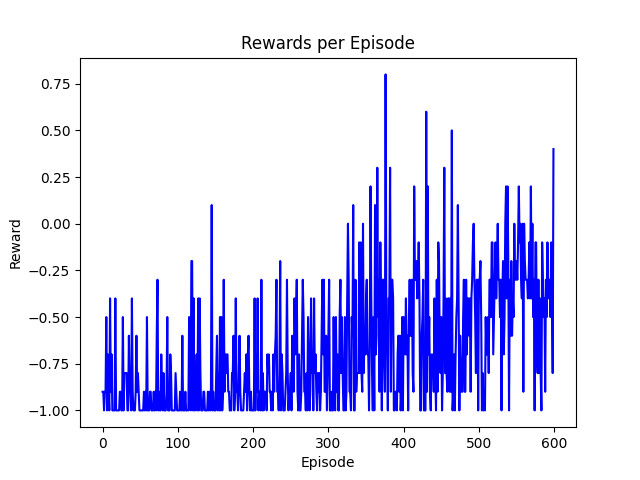
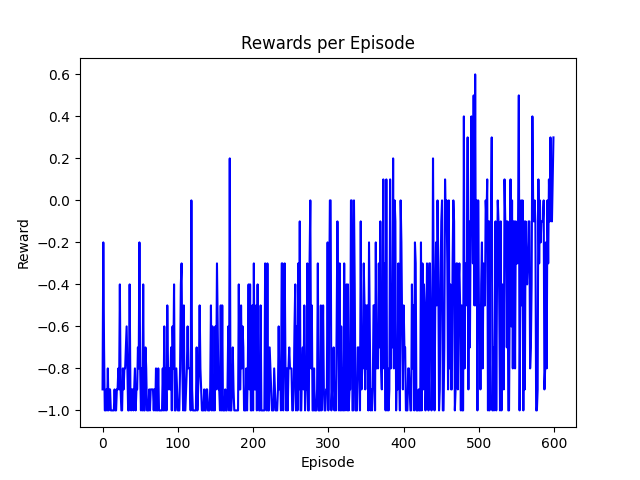
new eps

diff --git a/eps.py b/eps.py
@@ -1,0 +1,87 @@
+import math
+import numpy as np
+import torch
+
+
+class AdaptiveEpsilonGreedy:
+    def __init__(
+        self,
+        eps_max=1.0,
+        eps_min=0.05,
+        reward_improve_threshold=0.1,
+        success_threshold=0.8,
+        smoothing_factor=0.1,
+        stable_tolerance=0.01,
+        patience=5,
+    ):
+        """
+        eps_max: 초기 최대 탐색률
+        eps_min: 최소 탐색률
+        reward_improve_threshold: 보상 개선 판단 비율
+        success_threshold: 성공률 임계치
+        smoothing_factor: EMA 적용을 위한 계수(0~1)
+        stable_tolerance: 정체 구간 판단 기준 (보상 변화율이 이 이하일 경우 정체)
+        patience: 정체 구간 허용 횟수
+        """
+        self.eps_max = eps_max
+        self.eps_min = eps_min
+        self.epsilon = eps_max
+
+        self.avg_reward_ema = None
+        self.success_ema = None
+        self.smoothing_factor = smoothing_factor
+
+        self.reward_improve_threshold = reward_improve_threshold
+        self.success_threshold = success_threshold
+
+        self.increase_factor = 1.1
+        self.decrease_factor = 0.9
+
+        self.stable_tolerance = stable_tolerance
+        self.patience = patience
+        self.stable_count = 0
+
+    def update_epsilon(self, avg_reward, success_rate):
+        # EMA 업데이트
+        if self.avg_reward_ema is None:
+            self.avg_reward_ema = avg_reward
+            self.success_ema = success_rate
+            return
+        else:
+            old_ema = self.avg_reward_ema
+            self.avg_reward_ema = (self.smoothing_factor * avg_reward) + (
+                (1 - self.smoothing_factor) * self.avg_reward_ema
+            )
+            self.success_ema = (self.smoothing_factor * success_rate) + (
+                (1 - self.smoothing_factor) * self.success_ema
+            )
+
+        # 이전 EMA 값 대비 변화량 계산
+        current_ema = self.avg_reward_ema
+        current_diff = current_ema - old_ema
+
+        improvement_condition = (
+            current_diff > self.reward_improve_threshold * abs(old_ema)
+        ) or (self.success_ema >= self.success_threshold)
+        decline_condition = current_diff < -self.reward_improve_threshold * abs(old_ema)
+
+        # 정체 여부 판단
+        if abs(current_diff) < self.stable_tolerance:
+            self.stable_count += 1
+        else:
+            self.stable_count = 0
+
+        # epsilon 업데이트 로직
+        if improvement_condition:
+            # 성능 개선
+            new_epsilon = self.epsilon * self.decrease_factor
+            self.epsilon = max(self.eps_min, new_epsilon)
+        elif decline_condition:
+            # 성능 악화
+            new_epsilon = self.epsilon * self.increase_factor
+            self.epsilon = min(self.eps_max, new_epsilon)
+        else:
+            # 개선도 악화도 없는 정체 구간
+            if self.stable_count >= self.patience:
+                # 여기서는 epsilon을 그대로 유지하는 방식을 택함
+                pass

diff --git a/main.py b/main.py
@@ -8,14 +8,13 @@ import torch.nn as nn
 from typing import Any, Dict
 import math
 import matplotlib.pyplot as plt
+from eps import AdaptiveEpsilonGreedy
+from collections import deque
 
 device = torch.device("cuda" if torch.cuda.is_available() else "cpu")
 print(device)
-BATCH_SIZE = 128
+BATCH_SIZE = 256
 GAMMA = 0.99
-EPS_START = 0.9
-EPS_END = 0.05
-EPS_DECAY = 1000
 TAU = 0.005
 LR = 1e-4
 
@@ -48,6 +47,8 @@ class RoadHogRLAgent(RoadHogAgent):
         self.idx = -1
         self.loc = np.array([0, 0, 0])
 
+        self.epsilon = AdaptiveEpsilonGreedy()
+
     def reset(self):
         self.idx = -1
 
@@ -63,9 +64,8 @@ class RoadHogRLAgent(RoadHogAgent):
 
         sample = np.random.random()
 
-        eps_threshold = EPS_END + (EPS_START - EPS_END) * math.exp(
-            -1.0 * steps_done / EPS_DECAY
-        )
+        eps_threshold = self.epsilon.epsilon
+
         steps_done += 1
         if sample > eps_threshold:
             with torch.no_grad():
@@ -145,7 +145,12 @@ def train(agent: RoadHogRLAgent):
     reward_t: torch.Tensor
     action: torch.Tensor
 
-    for episode in range(600):
+    num_episodes = 600
+    window_size = 50
+    recent_rewards = deque([], maxlen=window_size)
+    recent_successes = deque([], maxlen=window_size)
+
+    for episode in range(num_episodes):
         agent.reset()
         observation, _ = ENV.reset()
         pre_state = parse_state(observation["observation"], observation["goal_spot"])
@@ -153,7 +158,8 @@ def train(agent: RoadHogRLAgent):
             0
         )
 
-        episode_reward = 0
+        episode_reward = 0.0
+        goal = False
 
         agent.env_reset()
         while 1:
@@ -205,9 +211,21 @@ def train(agent: RoadHogRLAgent):
             if done:
                 break
 
+        # 에피소드 결과 기록
+        recent_rewards.append(episode_reward)
+        recent_successes.append(1.0 if goal else 0.0)
+
+        # 일정 기간(윈도우) 평균으로 epsilon 업데이트
+        if len(recent_rewards) == window_size:
+            avg_reward = np.mean(recent_rewards)
+            success_rate = np.mean(recent_successes)
+            agent.epsilon.update_epsilon(avg_reward, success_rate)
+
         rewards_history.append(episode_reward)
-        if episode % 50 == 0:
-            print(f"episode: {episode} reward: {episode_reward}")
+        if episode % 10 == 0:
+            print(
+                f"episode: {episode} reward: {episode_reward} epsilon: {agent.epsilon.epsilon}"
+            )
             print(f"agent x: {state[0]} goal x: {state[3]}")
 
 

diff --git a/dqn.py b/dqn.py
@@ -33,29 +33,17 @@ import torch.nn as nn
 import torch.nn.functional as F
 
 
-class DeeperDQN(nn.Module):
+class DQN(nn.Module):
     def __init__(self, n_observations, n_actions):
-        super(DeeperDQN, self).__init__()
-        # 더 깊은 네트워크 구성
+        super(DQN, self).__init__()
         self.layer1 = nn.Linear(n_observations, 256)
-        self.layer2 = nn.Linear(256, 256)
-        self.layer3 = nn.Linear(256, 128)
-        self.layer4 = nn.Linear(128, 128)
-        self.layer5 = nn.Linear(128, 64)
-        self.layer6 = nn.Linear(64, n_actions)
-
-        # 드롭아웃 설정
-        self.dropout = nn.Dropout(p=0.2)
+        self.layer2 = nn.Linear(256, 128)
+        self.layer3 = nn.Linear(128, n_actions)
 
     def forward(self, x):
         x = F.relu(self.layer1(x))
-        x = self.dropout(x)
         x = F.relu(self.layer2(x))
-        x = self.dropout(x)
-        x = F.relu(self.layer3(x))
-        x = F.relu(self.layer4(x))
-        x = F.relu(self.layer5(x))
-        return self.layer6(x)
+        return self.layer3(x)
 
 
 def parse_state(state: list, target: list):
@@ -70,13 +58,12 @@ def calculate_reward(pre_state: list, state: list) -> Tuple[float, bool]:
 
     # 보상 초기화
     reward = 0.0
-
     # x1이 x2에 1만큼 가까워지면 0.1 보상 추가
-    if abs(x1 - x2) < abs(x1_prev - x2):
+    if abs(x2 - x1) < abs(x2 - x1_prev):
         reward += 0.1
 
     # x1이 x2에 10 이내로 도달했을 때 종료 조건
-    if abs(x1 - x2) <= 10:
+    if abs(x2 - x1) <= 10:
         reward += 1.0
         return reward, True
 
